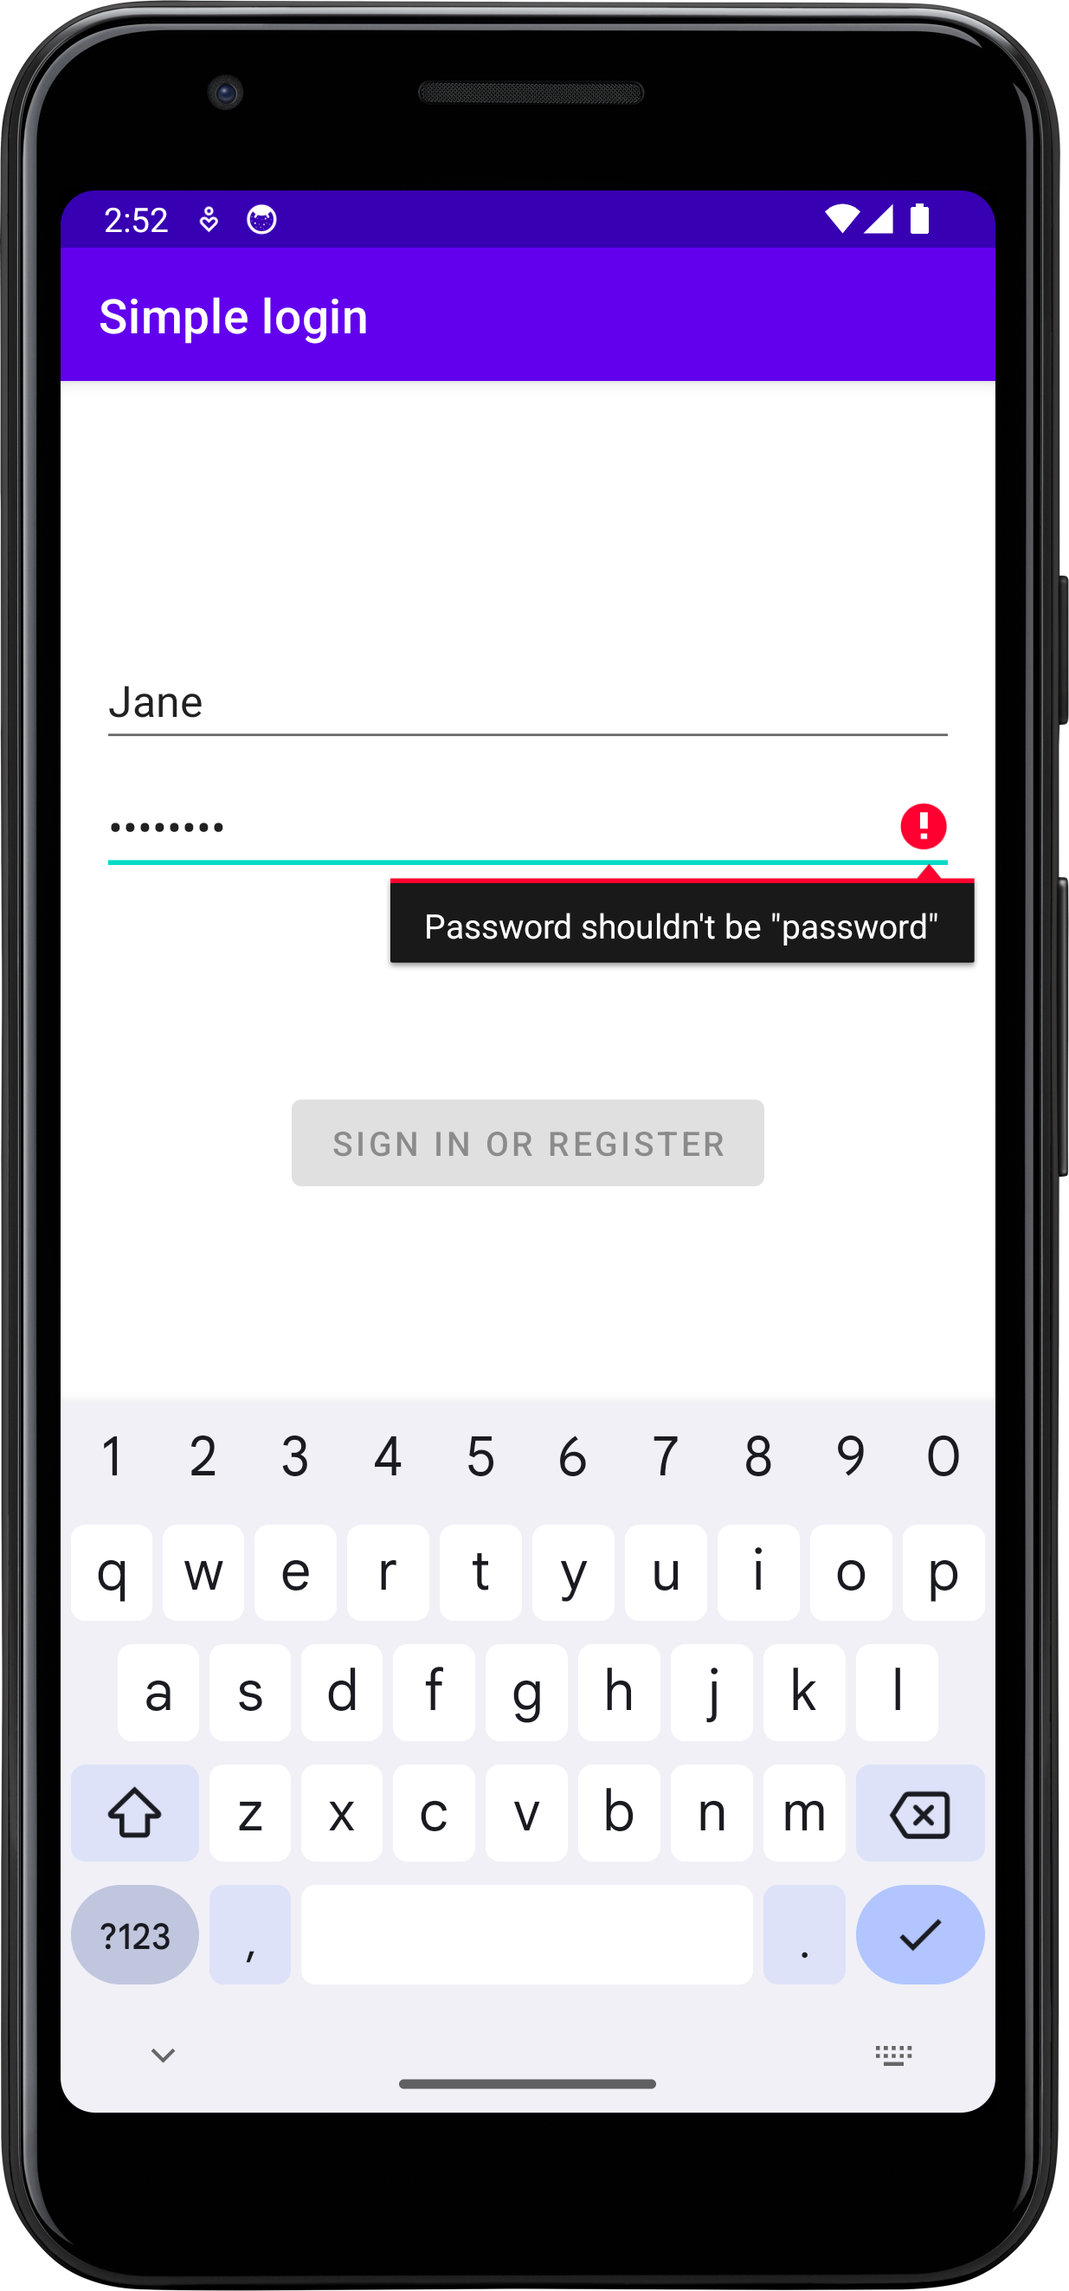
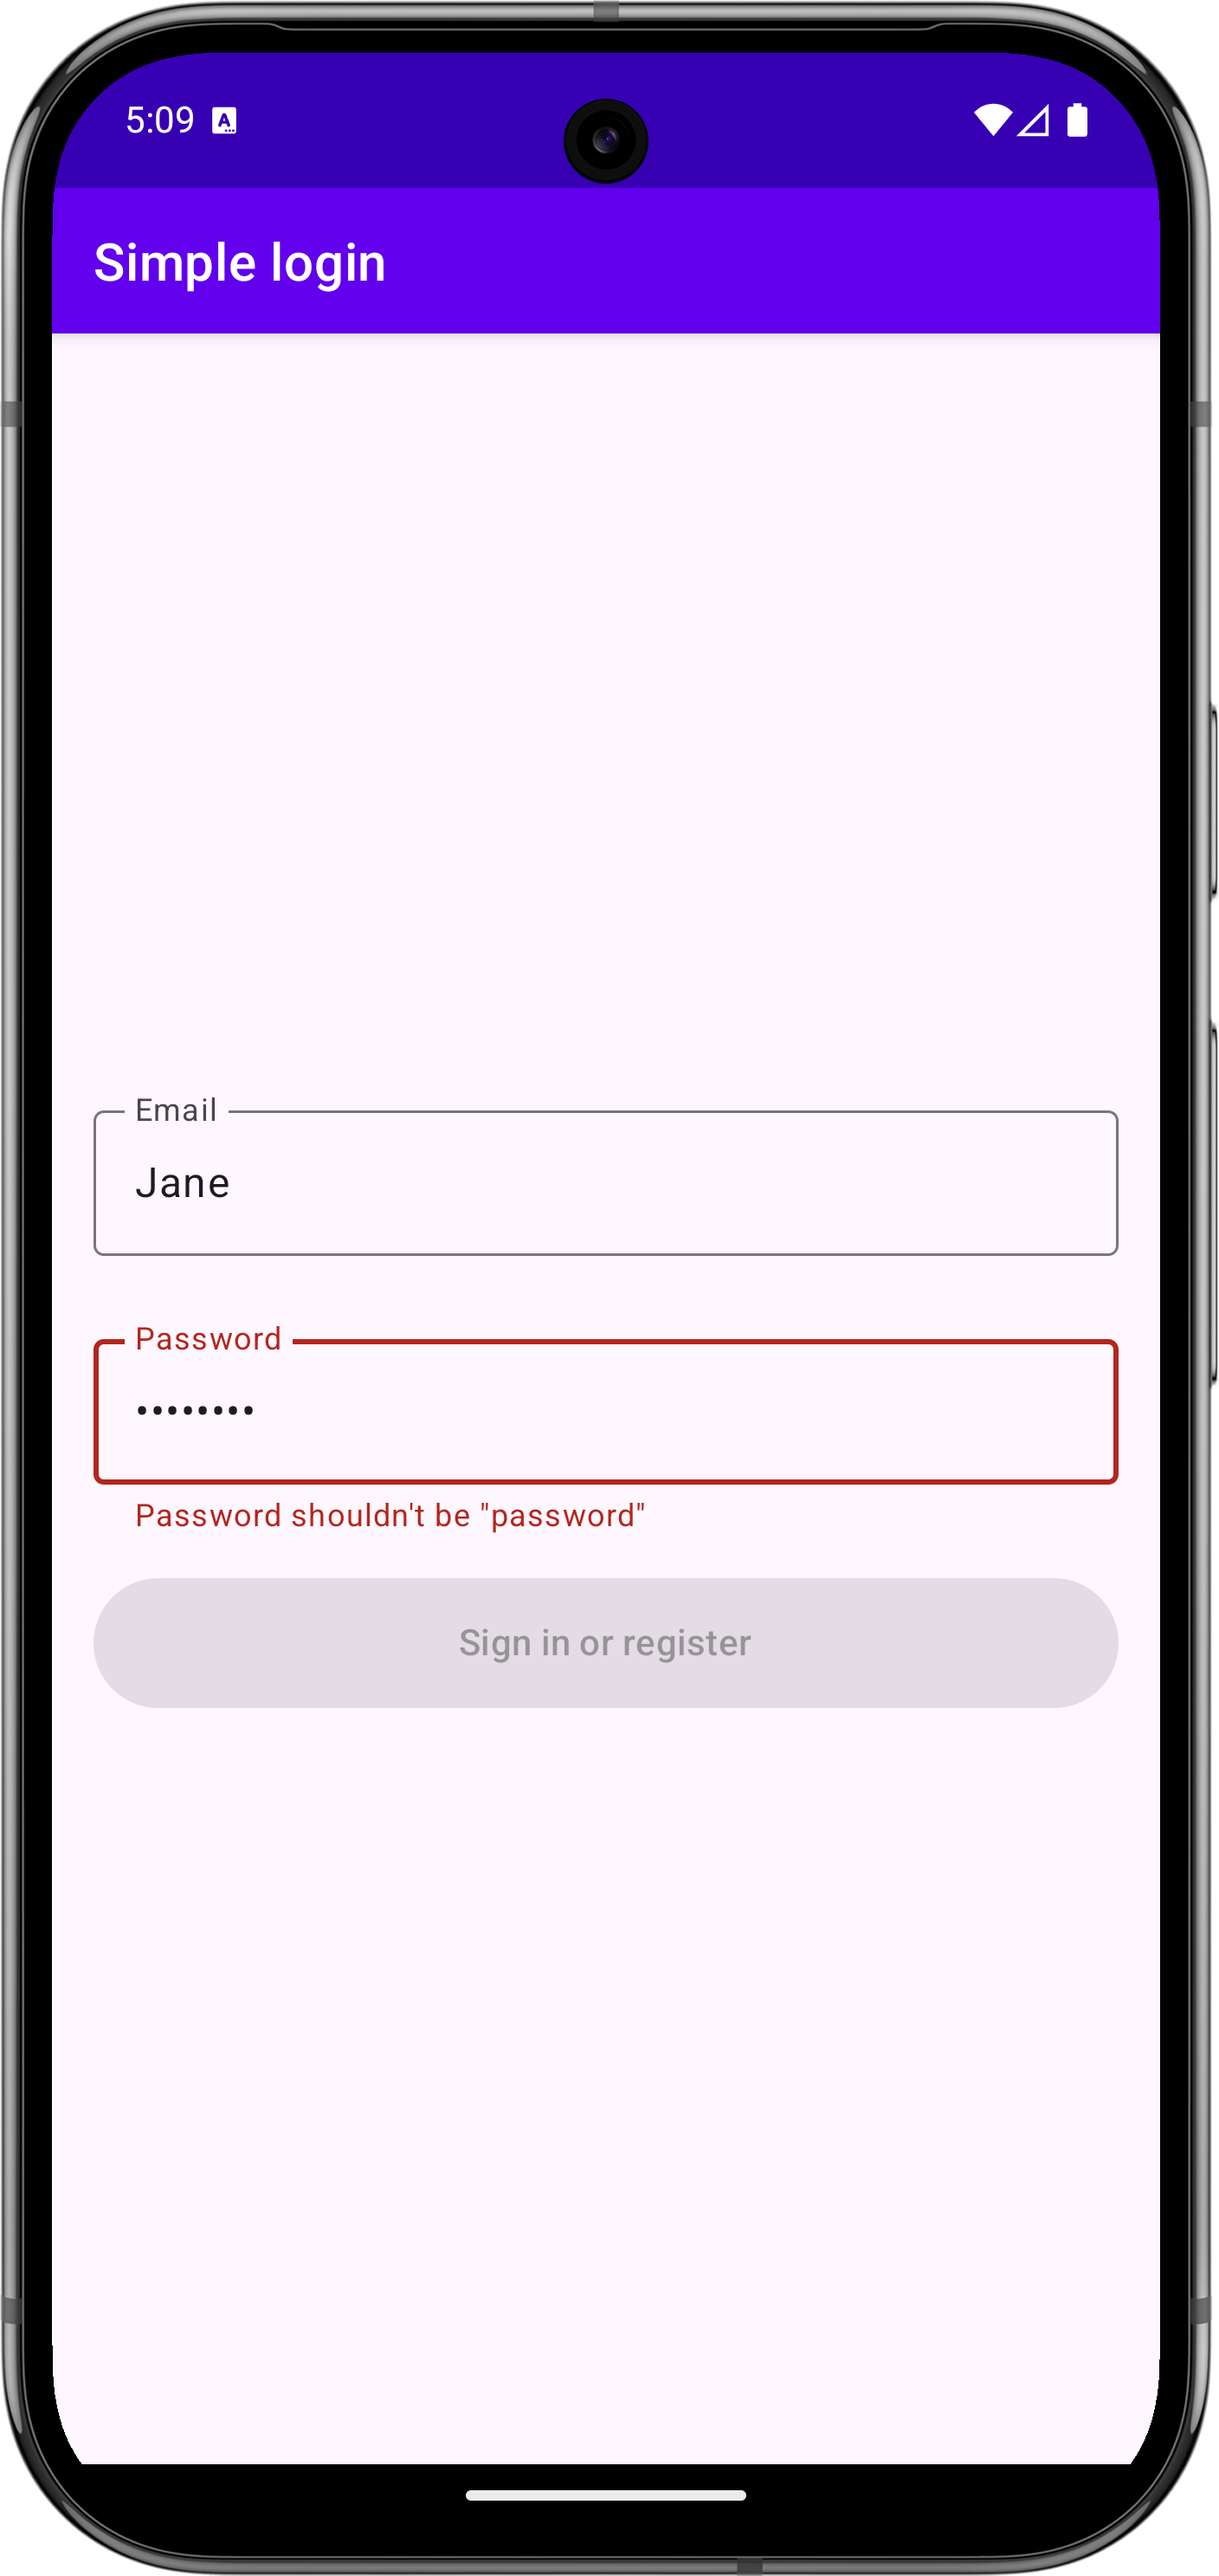
update: update screenshots for jetpack compose

diff --git a/topics/multiplatform-integrate-in-existing-app.md b/topics/multiplatform-integrate-in-existing-app.md
@@ -71,7 +71,10 @@ Create a shared module and connect it to both the existing Android application a
 
 1. In Android Studio, select **File** | **New** | **New Module** from the main menu.
 2. In the list of templates, select **Kotlin Multiplatform Shared Module**.
-   Leave the library name `shared` and enter the package name `com.jetbrains.simplelogin.shared`.
+   Leave the library name `shared` and enter the package name:
+   ```
+   com.jetbrains.simplelogin.shared
+   ```
 3. Click **Finish**. The wizard creates a shared module, changes the build script accordingly, and starts a Gradle sync.
 4. When the setup is complete, you will see the following file structure in the `shared` directory:
 
@@ -197,7 +200,7 @@ This is necessary for reusing the code for both Android and iOS.
 
 2. When Android Studio asks what you'd like to do, select to move the package and then approve the refactoring.
 
-   ![Refactor the business logic package](refactor-business-logic-package.png){width=500}
+   ![Refactor the business logic package](refactor-business-logic-package.png){width=300}
 
 3. Ignore all warnings about platform-dependent code and click **Continue**.
 
